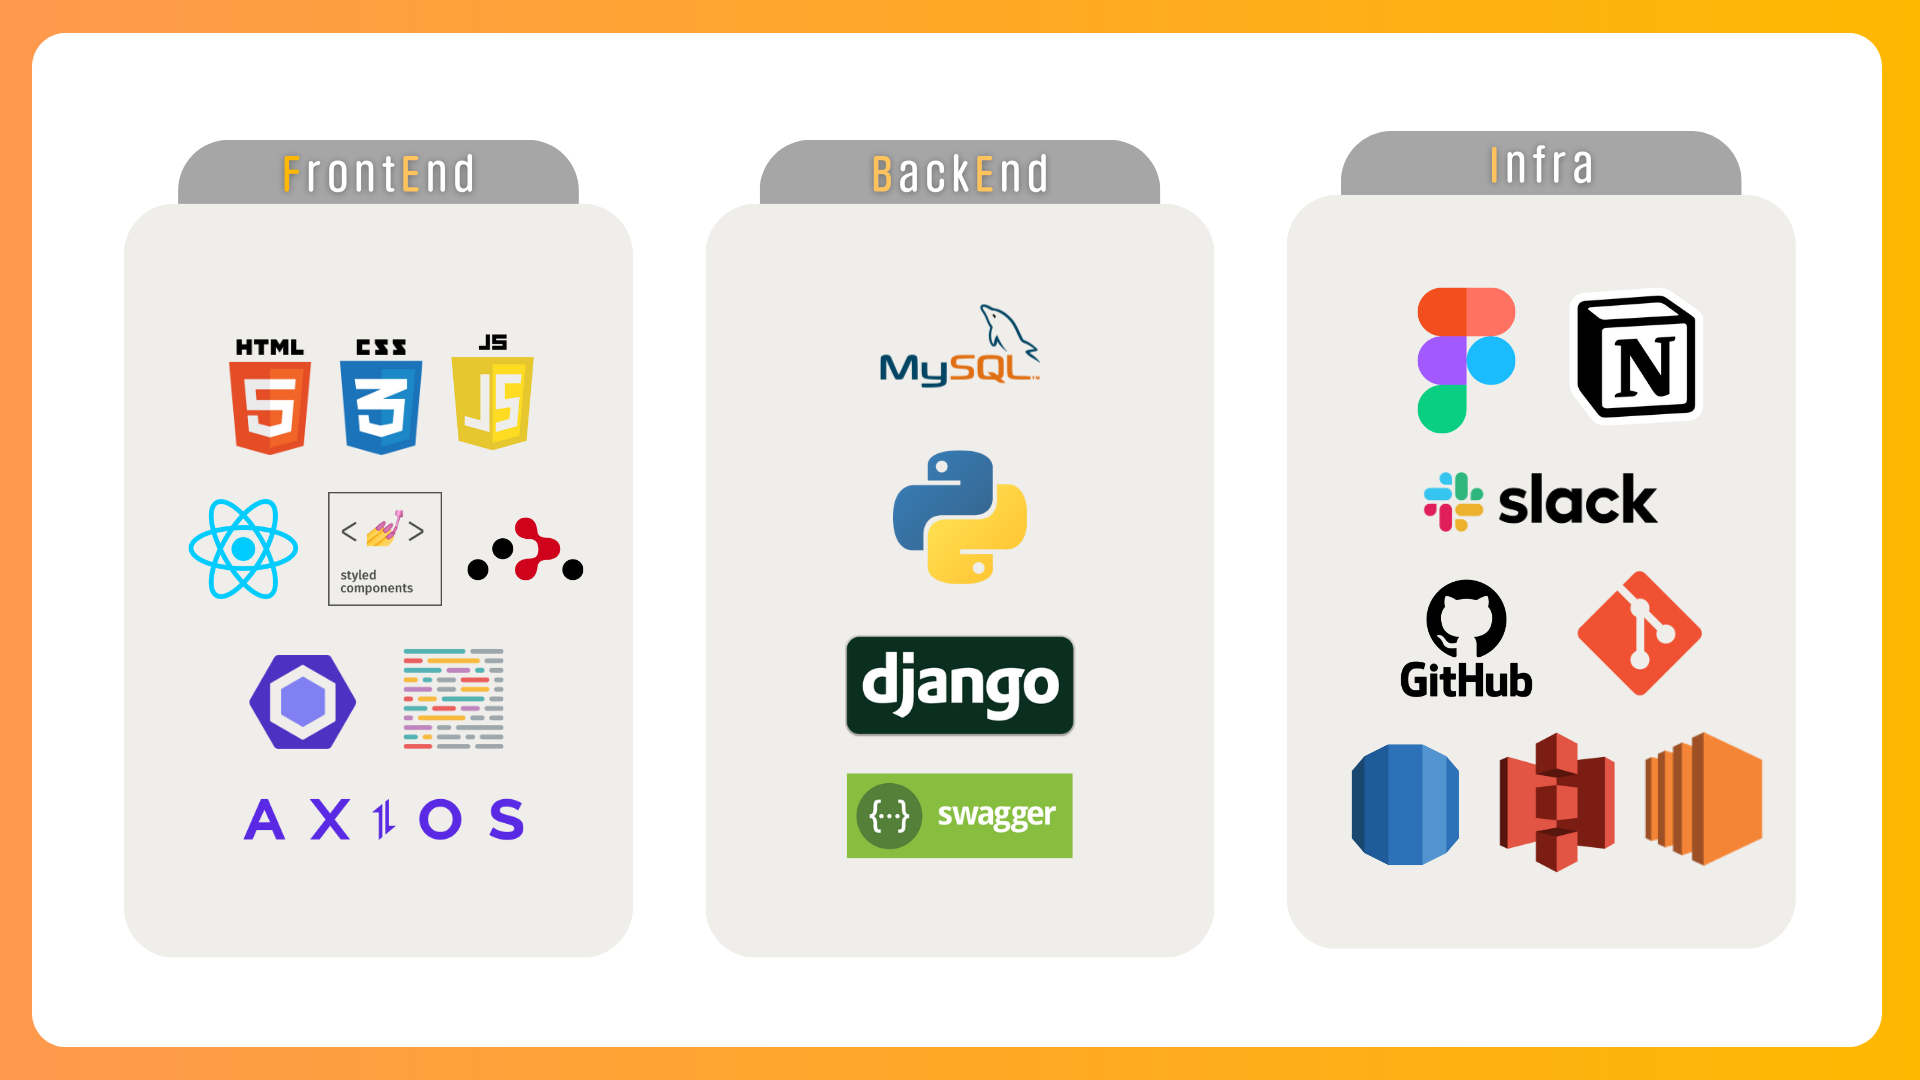
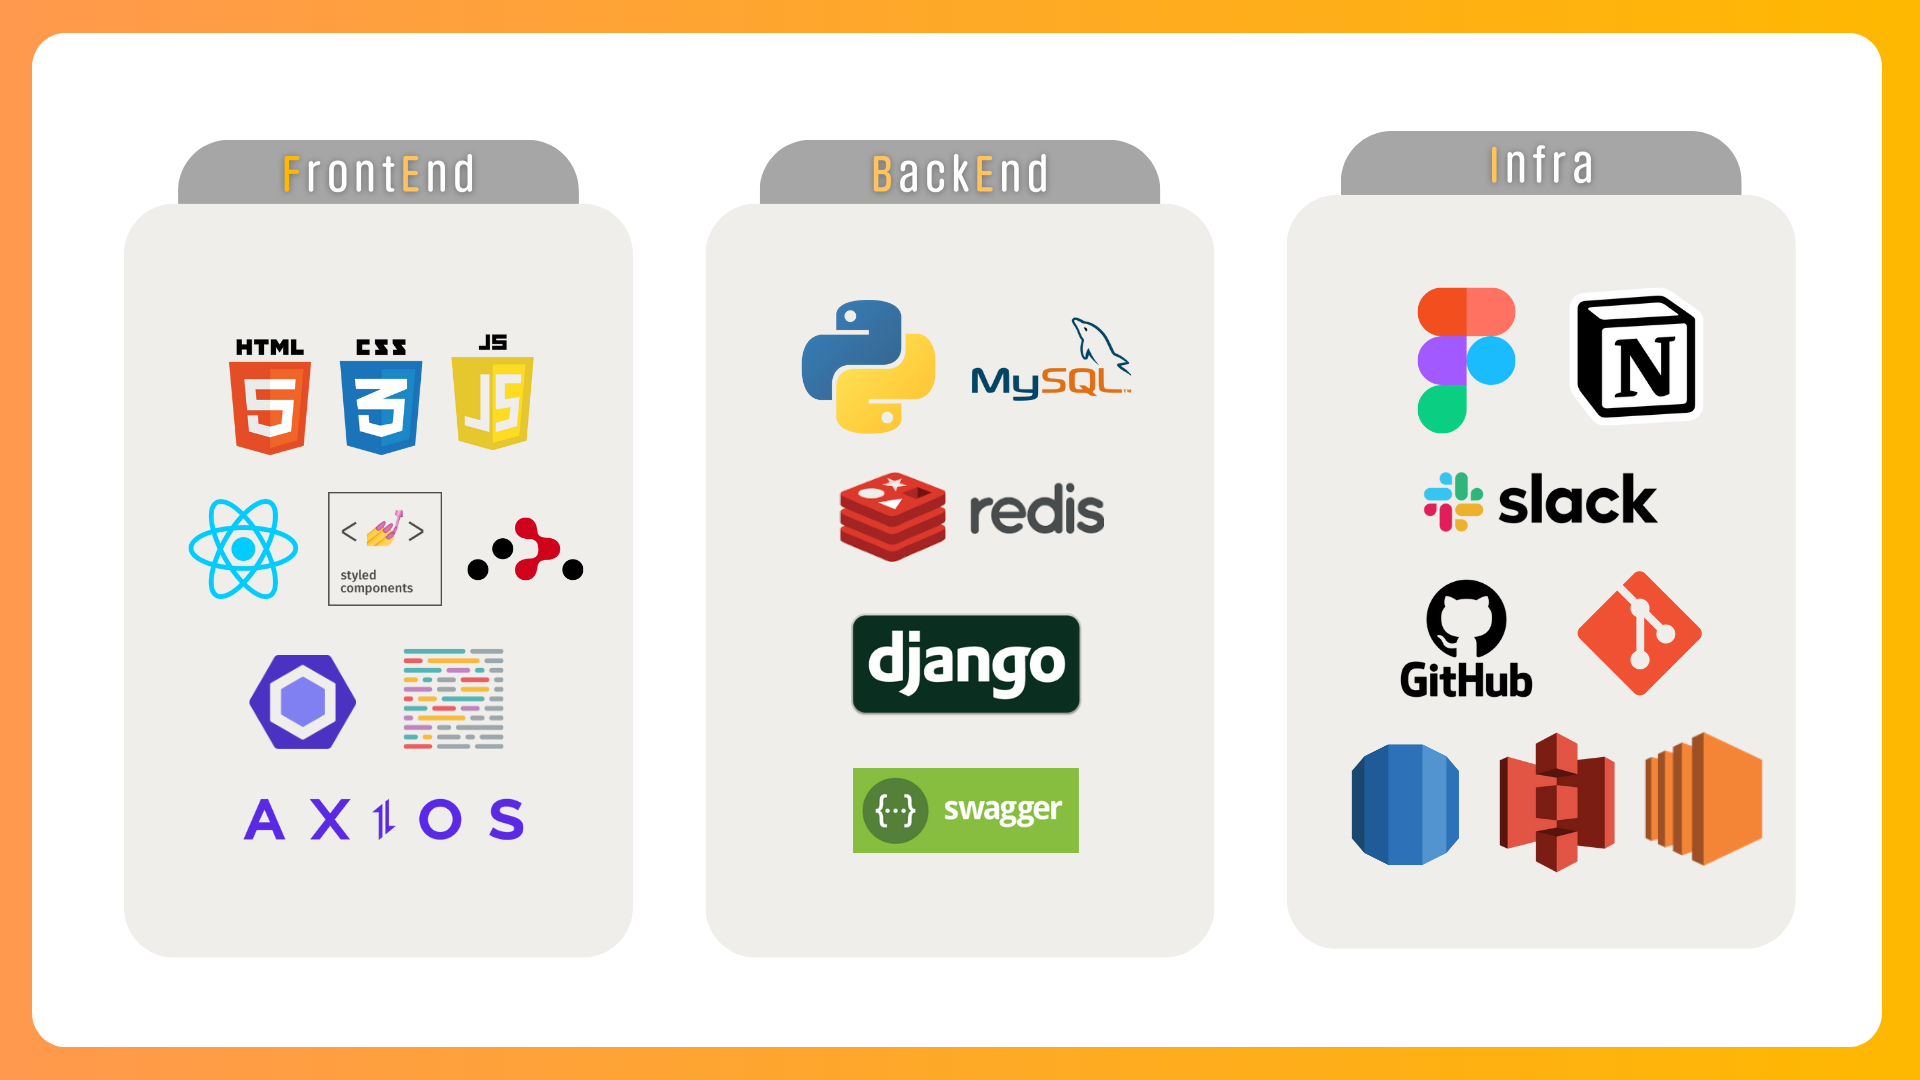
docs: Update README.md

Changed region(s): [[0.4375, 0.3972, 0.5938, 0.7944], [0.4062, 0.275, 0.5938, 0.3972]]

diff --git a/README.md b/README.md
@@ -35,57 +35,14 @@
 
 ## 🛠기술 스택
 
-![기술 스택](./public/readme/new_stack.png)
+![기술 스택](./public/readme/stack.png)
 <br>
-
-> 프론트엔드 (FrontEnd)
-
-- React
-- HTML5
-- CSS
-- JavaScript
-- 스타일링: Styled-Components
-- 포매터: ESLint + Prettier
-- 라우팅: React Router
-- HTTP 클라이언트: Axios
-
-> 백엔드 (BackEnd)
-
-- Django Redis
-
-> 데이터베이스 관리 (Database Management)
-
-- AWS RDS (MySQL)
-
-> 서버 배포 (Server Deployment)
-
-- AWS EC2
-
-> 협업 툴 (Collaboration Tools)
-
-- Notion
-- Slack
-- Git
-- GitHub
-- Figma
 
 <br>
 
 ## 🌟서비스 고안 배경
 
-대개 견주들은 바쁘거나, 일정이 존재하여 강아지를 산책시킬 시간을 내기 어려울 때가 종종 있습니다.
-이에 따라 일정의 보수를 받고 강아지를 대신 산책시켜주는 '도그워커'가 등장하기도 하였습니다.
-
-그러나 보수가 목적이 아닌 단순 강아지와 함께 산책을 하고자 하는 일반인도 존재하며, 이러한 무보수 도그워커까지 폭넓게 포함하여
-견주와 도그워커를 매칭해주는 서비스가 있다면 편리할 것입니다.
-
-산책자는 혼자 하는 산책보다 더 즐거운 시간을 보낼 수 있고, 귀여운 강아지와의 교감을 통해 더욱 특별한 추억을 만들 수 있습니다. 견주들은 강아지가 충분히 운동하고 행복하게 산책할 수 있어서 안심할 수 있죠!
-
-또한, 단순 산책 뿐만 아니라 챌린지, 업적, 추천 산책로 등 다양한 기능을 통해 산책의 건강한 즐거움을 체험하고, 다각적 방면의 사용자 건강 증진을 기대합니다.
-
-이제 강쥐시그널과 더 건강하개, 더 귀엽개 산책하세요!
-
-또한, 단순 산책 뿐만 아니라 앱 내 다양한 재미요소와 미션을 걸어 산책의 즐거움을 사용자에게 체험하게함으로써, 다각적인 방면에서의 건강을 증진시키는 것을 기대합니다.
+![서비스 고안 배경](./public/readme/background.png)
 
 <br><br>
 
@@ -93,21 +50,6 @@
 
 ![가이드1](./public/readme/guide1.png)
 ![가이드2](./public/readme/guide2.png)
-
-```python
-강쥐시그널은 견주와 도그워커를 연결하는 플랫폼으로, 바쁜 생활 속에서도 강아지에게 충분한 운동을 제공하기 위해 만들어졌습니다.
-강아지와 산책을 원하는 사용자는 자신의 위치를 기반으로 근처에서 강아지를 산책시킬 수 있는 도그워커를 찾습니다.
-도그워커는 원하는 강아지를 선택하고 견주와 채팅을 통해 산책 일정을 조율할 수 있습니다.
-
-산책 중에는 견주가 강아지의 위치를 실시간으로 추적할 수 있으며, 산책이 끝난 후에는 산책 기록을 조회하고 리뷰를 남길 수 있습니다.
-이 외에도 추천 산책로와 다양한 챌린지 기능을 제공하여 사용자들이 더욱 즐겁고 건강한 산책을 즐길 수 있도록 돕습니다.
-
- 강쥐시그널은 단순히 강아지 산책을 돕는 것을 넘어, 강아지와 사람 모두에게 즐거운 시간을 제공하고자 합니다.
-이 서비스를 통해 도그워커는 강아지와의 시간을 통해 스트레스를 해소하고 건강을 증진시킵니다.
-또, 견주가 자신의 바쁜 일정으로 인해 강아지 산책에 대해 걱정하거나 불안해하는 부담을 덜어줍니다.
-강쥐시그널은 강아지와 견주, 그리고 도그워커 모두에게 윈-윈(win-win) 상황을 제공하며,
-사용자의 건강과 행복을 동시에 추구하는 산책의 새로운 접근 방식을 제공합니다.
-```
 
 <br>
 
@@ -123,18 +65,11 @@
 
 **⭐ '내'가 강아지의 '보호자'로써 어플리케이션을 사용할 때!**
 
-> 1. '내 정보' 화면에서 강아지를 등록합니다. (성별, 나이, 성격 등을 설정할 수 있습니다.)
-> 2. 내 강아지의 현재 상태에 따라 '내 정보' 창에서 강아지의 상태를 변경할 수 있습니다!
->
->    > 심심해요 : 강아지가 산책을 원하는 상태로, 도그워커의 지도에 내 강아지 정보가 표시됩니다.
->    >
->    > 산책중! : 도그워커와 강아지가 산책을 시작하면 자동으로 전환되는 상태입니다. 다른 도그워커의 지도에 강아지 정보가 표시되지 않습니다.
->    >
->    > 쉬는 중 : 강아지가 산책을 원하지 않는 상태/산책이 필요없는 상태로, 다른 도그워커의 지도에 강아지 정보가 표시되지 않습니다.
->
-> 3. 도그워커에게 채팅이 오면, 약속을 조율하고 약속을 생성 및 확인합니다.
-> 4. 도그워커가 약속 날 산책을 시작하면, '지도' 화면의 '산책현황'에서 내 강아지가 어디 있는지 확인할 수 있습니다.
-> 5. 도그워커의 산책이 끝나면, 도그워커에게 리뷰를 써 주세요!
+1.  '내 정보' 화면에서 강아지를 등록합니다. (성별, 나이, 성격 등을 설정할 수 있습니다.)
+2.  내 강아지의 현재 상태에 따라 '내 정보' 창에서 강아지의 상태를 변경할 수 있습니다!
+3.  도그워커에게 채팅이 오면, 약속을 조율하고 약속을 생성 및 확인합니다.
+4.  도그워커가 약속 날 산책을 시작하면, '지도' 화면의 '산책현황'에서 내 강아지가 어디 있는지 확인할 수 있습니다.
+5.  도그워커의 산책이 끝나면, 도그워커에게 리뷰를 써 주세요!
 
 <br>
 
@@ -242,17 +177,6 @@
 - 회원가입 때 입력한 비밀번호를 DB에 저장할 때 해싱하여 저장합니다.
 ```
 
-## 🙌시장 진입 전략
-
-> **❤초기 자본 투자로 홍보 효과 기대**
-
-위치 기반 산책로 추천 시스템에 요즘 미디어 트렌드에 걸맞는 '인증 챌린지'를 접목합니다. 본 서비스를 이용하며 추천 산책로에 방문하고, '인증샷'을 SNS에 올리는 강쥐시그널 산책 인증 챌린지를 진행합니다.
-챌린지의 경품으로 강쥐시그널의 로고가 삽입된 강아지 목줄, 하네스, 물병 등 상품을 제공하며, 이를 통해 일상적인 강아지 산책에서 서비스의 자연스러운 노출과 홍보 효과를 기대합니다.
-
-> **❤유동 잠재 고객이 많은 곳에 홍보물 부착**
-
-본 서비스의 잠재 고객인 '바쁜 일정 때문에 강아지 산책을 불가피하게 하지 못한 경험이 있는 견주', '강아지와 함께 산책을 하고 싶은 경험이 있는 일반인'이 자주 방문하는 공원이나 동물병원, 애견용품샵 등 관련 업체들과 제휴하여 홍보물을 부착합니다.
-
 ## 🗒FE 폴더 구조
 
 ```
@@ -344,7 +268,7 @@
 
 ## 💎와이어프레임
 
-![와이어프레임](meong_signal/static/readme/frame.png)
+![와이어프레임](./public/readme/frame.png)
 <br>
 
 #### [🛠강쥐시그널 와이어프레임 프로토타입 링크](https://www.figma.com/design/YznRx0ey7UWGjUKVWEql8c/%ED%94%84%EB%A1%9C%ED%86%A0%ED%83%80%EC%9E%85?node-id=1-17&t=e4APDaxG8BwdyHzq-1)
@@ -353,7 +277,7 @@
 
 ## 🗃데이터베이스 구조
 
-![erd](meong_signal/static/readme/erd2.png)
+![erd](./public/readme/erd2.png)
 <br>
 
 #### [🛠강쥐시그널 ERD 링크](https://www.erdcloud.com/d/8iGrcJThkHzbaZ5nH)
